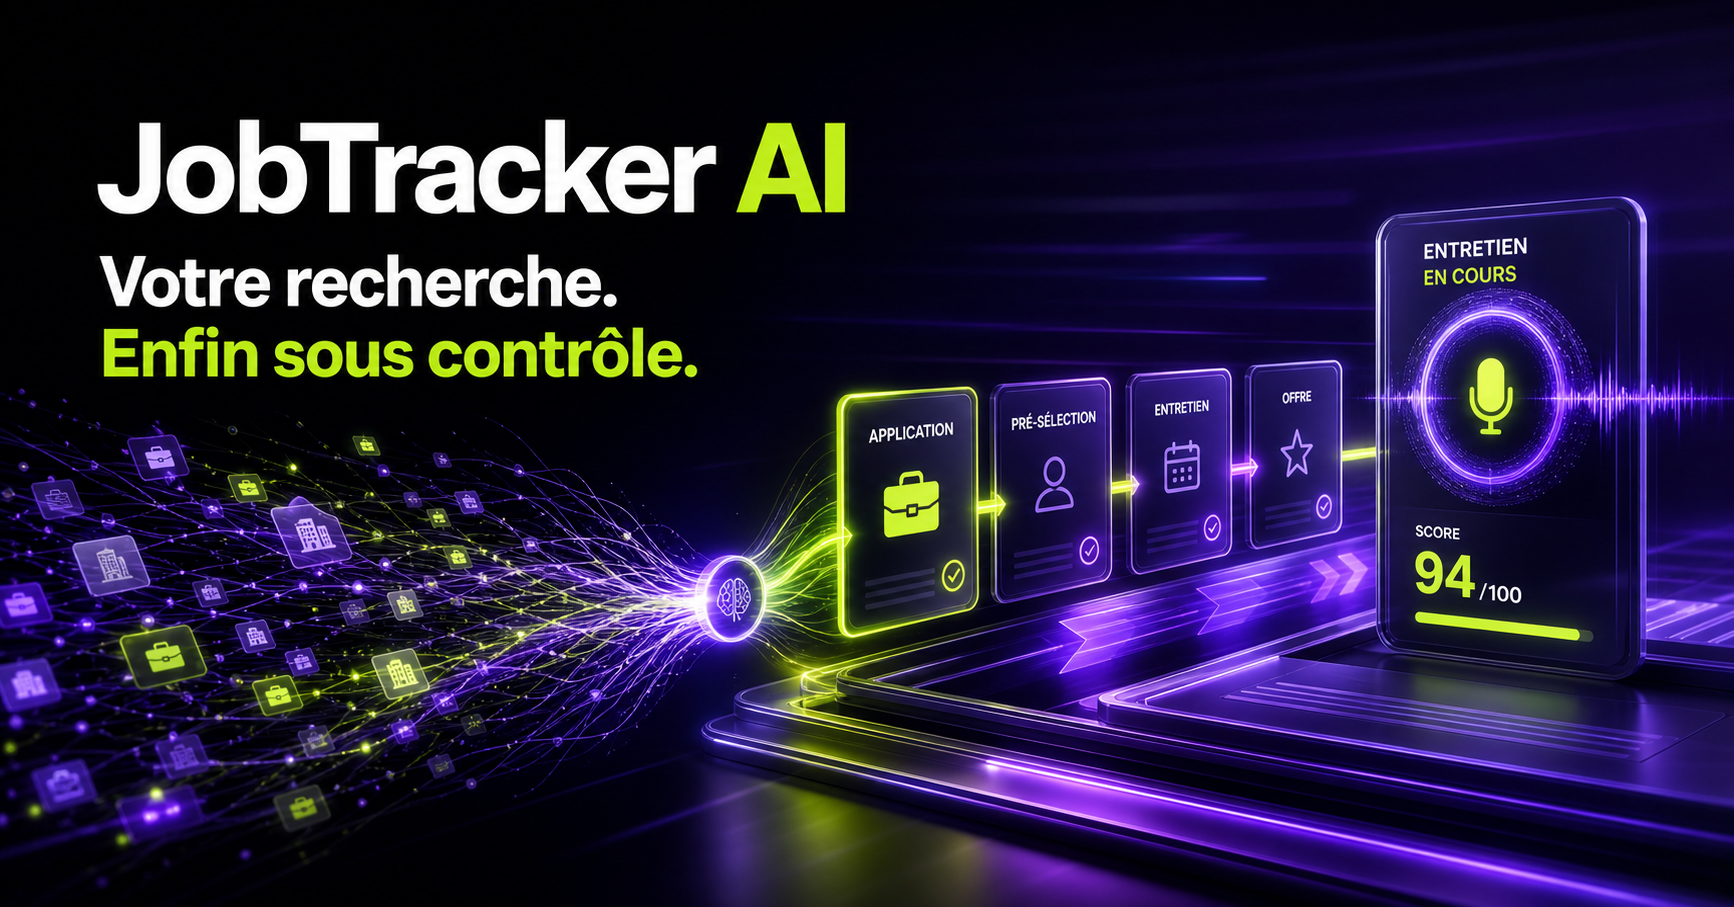
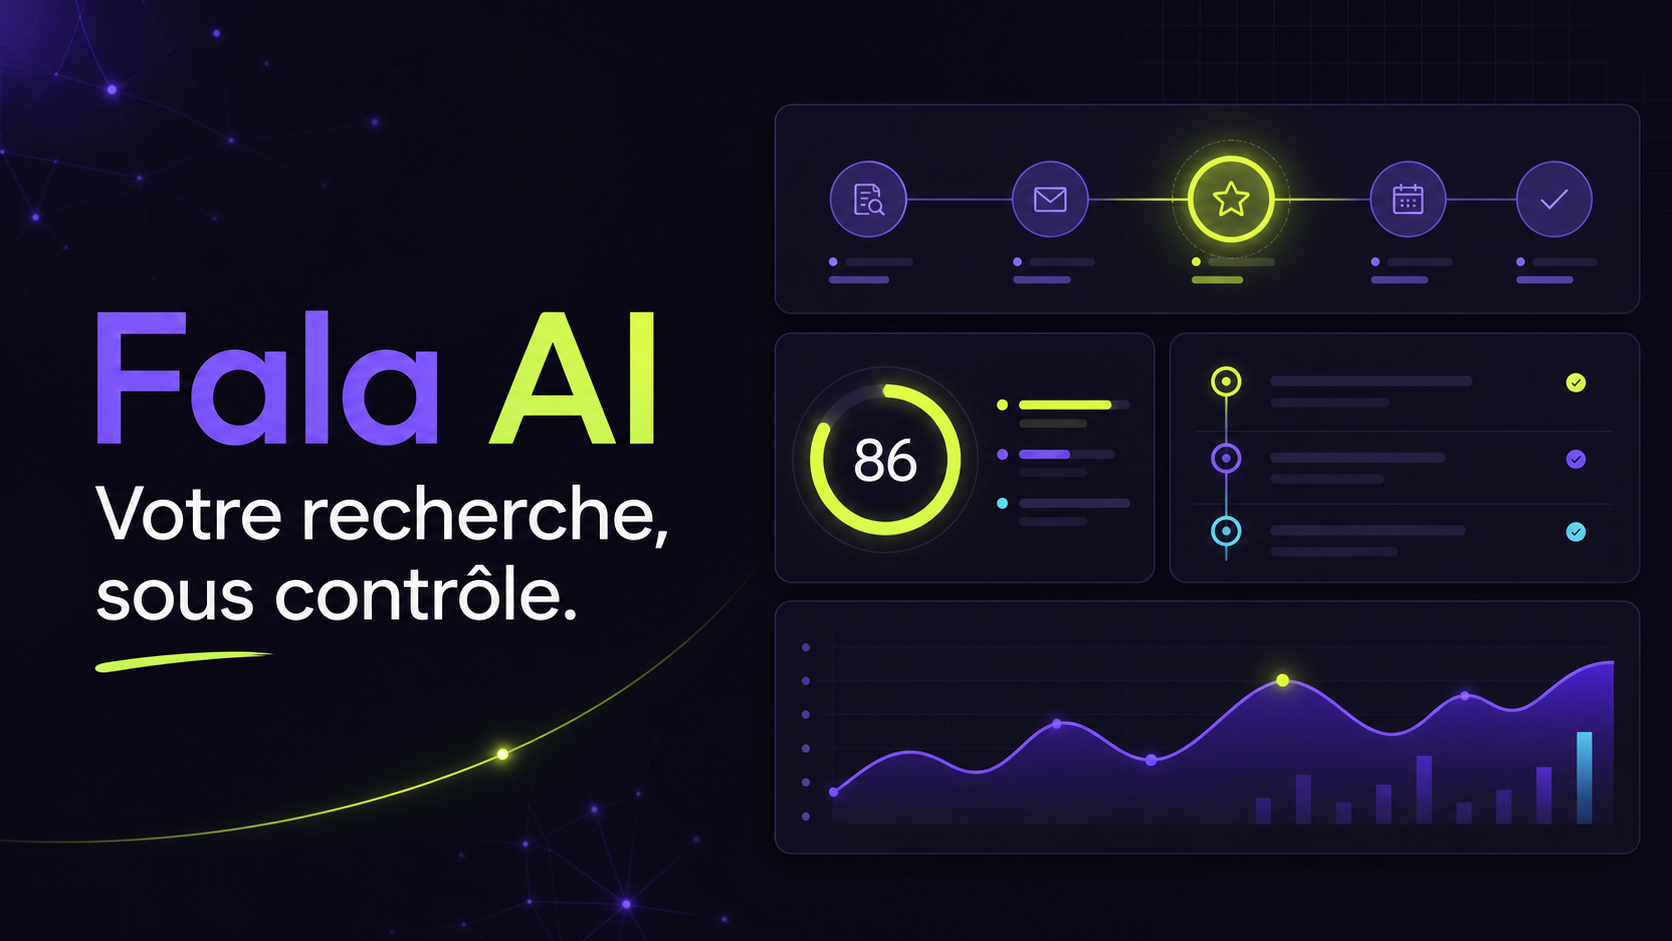
Rename platform to Fala AI and improve responsive layout

diff --git a/app/globals.css b/app/globals.css
@@ -41,6 +41,12 @@ nav { display:flex; flex-direction:column; gap:5px; }
 .search { width:min(450px, 44vw); height:39px; display:flex; align-items:center; gap:9px; padding:0 13px; border:1px solid var(--line); border-radius:9px; background:#fafafa; color:#9c9da6; }
 .search input { width:100%; border:0; outline:0; background:transparent; color:var(--ink); font-size:12px; }
 .top-actions { display:flex; align-items:center; gap:13px; }
+.mobile-menu { display:none; position:relative; }
+.mobile-menu summary { width:40px; height:40px; display:grid; place-items:center; border:1px solid var(--line); border-radius:9px; color:#555764; background:white; cursor:pointer; list-style:none; font-weight:900; }
+.mobile-menu summary::-webkit-details-marker { display:none; }
+.mobile-menu > div { position:absolute; z-index:30; top:47px; right:0; width:210px; padding:8px; display:grid; gap:3px; border:1px solid var(--line); border-radius:12px; background:white; box-shadow:0 18px 45px #201a3830; }
+.mobile-menu a,.mobile-menu button { min-height:40px; padding:0 11px; display:flex; align-items:center; border:0; border-radius:8px; color:#565763; background:transparent; text-decoration:none; text-align:left; font-size:11px; font-weight:700; }
+.mobile-menu a:hover,.mobile-menu button:hover { color:#5131ea; background:#f2efff; }
 .live { display:flex; align-items:center; gap:7px; color:#777986; font-size:11px; }
 .live i { margin:0; }
 .icon-button { position:relative; width:37px; height:37px; border:1px solid var(--line); background:white; border-radius:9px; font-size:20px; }
@@ -113,8 +119,8 @@ footer { padding:25px 2px 5px; display:flex; justify-content:space-between; colo
 .toast { position:fixed; z-index:70; right:25px; bottom:25px; display:flex; align-items:center; gap:9px; padding:12px 16px; border-radius:10px; background:#20202a; color:white; box-shadow:0 12px 30px #17172436; font-size:10px; animation:rise .25s ease; }.toast span { width:19px; height:19px; display:grid; place-items:center; border-radius:50%; background:#44b78a; }
 @keyframes rise { from { opacity:0; transform:translateY(10px); } } @keyframes pulse { 50% { opacity:.35; } } @keyframes timeSlice { 0%,65% { transform:translateX(-120%); } 88%,100% { transform:translateX(120%); } } @keyframes neuralDrift { 0%,100%{transform:translate(0,0) scale(.7);opacity:.25} 50%{transform:translate(24px,-18px) scale(1.25);opacity:.8} }
 @media (max-width:1050px) { .metric-grid { grid-template-columns:repeat(2,1fr); }.offer-grid { grid-template-columns:repeat(2,1fr); }.offer-card:last-child { display:none; } }
-@media (max-width:760px) { .sidebar { display:none; }.content { margin:0; width:100%; }.topbar { height:auto; padding:12px 18px; flex-wrap:wrap; gap:10px; }.mobile-brand { display:flex; align-items:center; gap:7px; font-size:13px; font-weight:800; }.mobile-brand .brand-mark { width:27px; height:27px; }.search { order:3; width:100%; }.live { display:none; }.page-wrap { padding:24px 18px; }.welcome-row { align-items:flex-start; }.welcome-row .ghost-button { display:none; } h1 { font-size:25px; }.focus-card { padding:26px; }.time-orbit { display:none; }.metric-grid { grid-template-columns:1fr 1fr; }.offer-grid { grid-template-columns:1fr; }.offer-card:last-child { display:block; }.section-title .spark { display:none; }.applications-title { align-items:flex-end; }.insight-row { grid-template-columns:1fr; }.kanban { grid-template-columns:repeat(4,210px); } }
-@media (max-width:480px) { .top-actions .icon-button { display:none; }.primary { padding:10px 13px; }.metric-grid { grid-template-columns:1fr; }.focus-card h2 { font-size:19px; }.focus-actions { align-items:flex-start; flex-direction:column; gap:12px; }.offer-grid { gap:10px; }.insight-row { margin-top:20px; } footer { flex-direction:column; gap:8px; }.modal { padding:24px; }.score-summary { align-items:flex-start; flex-direction:column; } }
+@media (max-width:900px) { .sidebar { display:none; }.content { margin:0; width:100%; }.topbar { height:auto; padding:12px 18px; flex-wrap:wrap; gap:10px; }.mobile-brand { display:flex; align-items:center; gap:7px; font-size:13px; font-weight:800; }.mobile-brand .brand-mark { width:27px; height:27px; }.mobile-menu { display:block; }.search { order:3; width:100%; }.live { display:none; }.page-wrap { padding:24px 18px; }.welcome-row { align-items:flex-start; }.welcome-row .ghost-button { display:none; } h1 { font-size:25px; }.focus-card { padding:26px; }.time-orbit { display:none; }.metric-grid { grid-template-columns:1fr 1fr; }.offer-grid { grid-template-columns:1fr; }.offer-card:last-child { display:block; }.section-title .spark { display:none; }.applications-title { align-items:flex-end; }.insight-row { grid-template-columns:1fr; }.kanban { grid-template-columns:repeat(5,210px); } }
+@media (max-width:480px) { .top-actions { gap:7px; }.top-actions .primary { padding:10px 12px; }.metric-grid { grid-template-columns:1fr; }.focus-card h2 { font-size:19px; }.focus-actions { align-items:flex-start; flex-direction:column; gap:12px; }.offer-grid { gap:10px; }.insight-row { margin-top:20px; } footer { flex-direction:column; gap:8px; }.modal { padding:24px; }.score-summary { align-items:flex-start; flex-direction:column; }.applications-title { align-items:flex-start; flex-direction:column; }.view-toggle { width:100%; }.view-toggle button { flex:1; }.section-title { align-items:flex-start; }.activity-card { padding:16px; } }
 @media (prefers-reduced-motion:reduce) { *,*::before,*::after { scroll-behavior:auto!important; animation:none!important; transition:none!important; } }
 
 /* Operational product states */
@@ -184,5 +190,5 @@ footer { padding:25px 2px 5px; display:flex; justify-content:space-between; colo
 .user-activity-list > div > div { display:grid; gap:3px; }
 .user-activity-list strong { font-size:9px; }
 .user-activity-list small,.user-activity-list time { color:#96959f; font-size:7px; }
-@media(max-width:900px){.public-hero{grid-template-columns:1fr;text-align:center}.public-copy>p{margin-inline:auto}.public-actions{justify-content:center}.public-orbit{width:300px;height:300px}.admin-metrics{grid-template-columns:1fr 1fr}.admin-grid{grid-template-columns:1fr}}
-@media(max-width:600px){.public-copy h1{font-size:40px}.public-actions{flex-direction:column}.public-features{grid-template-columns:1fr}.public-orbit{display:none}.public-hero{min-height:530px}.public-nav{padding:0 18px}.public-register{display:none}.user-activity-list > div{grid-template-columns:8px 1fr}.user-activity-list time{grid-column:2}.admin-wrap{padding:25px 18px}.admin-top{padding:0 18px}.admin-top .brand span:last-child{display:none}.admin-metrics{grid-template-columns:1fr 1fr}.admin-heading{align-items:flex-start;flex-direction:column;gap:12px}}
+@media(max-width:900px){.public-hero{grid-template-columns:1fr;text-align:center}.public-copy>p{margin-inline:auto}.public-actions{justify-content:center}.public-orbit{width:300px;height:300px}.admin-metrics{grid-template-columns:1fr 1fr}.admin-grid{grid-template-columns:1fr}.admin-top{padding:0 22px}.admin-wrap{padding:30px 22px}}
+@media(max-width:600px){.public-copy h1{font-size:clamp(35px,11vw,44px);letter-spacing:-2px}.public-actions{flex-direction:column}.public-features{grid-template-columns:1fr}.public-orbit{display:none}.public-hero{min-height:530px;padding:62px 20px 45px}.public-nav{padding:0 18px}.public-register{display:none}.user-activity-list > div{grid-template-columns:8px 1fr}.user-activity-list time{grid-column:2}.admin-wrap{padding:25px 14px}.admin-top{padding:0 14px}.admin-top .brand span:last-child{display:none}.admin-top > div:last-child{gap:5px}.admin-top button,.admin-top a{padding:9px}.admin-metrics{grid-template-columns:1fr}.admin-heading{align-items:flex-start;flex-direction:column;gap:12px}.admin-panel{padding:15px}.activity-list > div{grid-template-columns:8px 1fr}.activity-list time{grid-column:2}.public-features{padding-inline:20px}}

diff --git a/app/admin/page.tsx b/app/admin/page.tsx
@@ -4,6 +4,7 @@ import { useEffect, useState } from "react";
 import Link from "next/link";
 
 type AdminData = {
+  connection:{status:string;source:string;checkedAt:string};
   summary:{users:number;active7d:number;applications:number;newApplications7d:number};
   statuses:Array<{status:string;count:number}>;
   recentUsers:Array<{email:string;display_name:string;created_at:string;last_seen_at:string}>;
@@ -16,8 +17,8 @@ export default function AdminPage() {
   const [data,setData]=useState<AdminData|null>(null); const [error,setError]=useState(""); const [loading,setLoading]=useState(true);
   async function load(){setLoading(true);const response=await fetch("/api/admin/overview",{cache:"no-store"});const body=await response.json();if(!response.ok)setError(body.error??"Accès impossible");else{setData(body);setError("");}setLoading(false);}
   useEffect(()=>{const timer=window.setTimeout(()=>void load(),0);return()=>window.clearTimeout(timer);},[]);
-  if(loading)return <main className="admin-shell"><div className="public-loader"><span className="brand-mark">J</span><p>Chargement du centre de contrôle…</p></div></main>;
+  if(loading)return <main className="admin-shell"><div className="public-loader"><span className="brand-mark">F</span><p>Chargement du centre de contrôle…</p></div></main>;
   if(error)return <main className="admin-shell"><div className="admin-denied"><span>!</span><h1>Accès refusé</h1><p>{error}</p><Link href="/">Retour à la plateforme</Link></div></main>;
   if(!data)return null;
-  return <main className="admin-shell"><div className="neural-field" aria-hidden="true"><i/><i/><i/><i/><i/></div><header className="admin-top"><div className="brand"><span className="brand-mark">J</span><span>JobTracker <b>Admin</b></span></div><div><button onClick={()=>void load()}>↻ Actualiser</button><Link href="/">← Espace utilisateur</Link></div></header><div className="admin-wrap"><div className="admin-heading"><div><span>ADMINISTRATION</span><h1>Centre de contrôle</h1><p>Vue globale de l’activité, accessible uniquement à l’administrateur autorisé.</p></div><span className="admin-live"><i/>Système actif</span></div><section className="admin-metrics"><article><span>UTILISATEURS</span><strong>{data.summary.users}</strong><small>{data.summary.active7d} actifs sur 7 jours</small></article><article><span>CANDIDATURES</span><strong>{data.summary.applications}</strong><small>{data.summary.newApplications7d} créées sur 7 jours</small></article><article><span>ACTIVITÉ</span><strong>{data.activity.length}</strong><small>derniers événements affichés</small></article><article><span>TAUX ACTIF</span><strong>{data.summary.users?Math.round(data.summary.active7d/data.summary.users*100):0}%</strong><small>utilisateurs vus récemment</small></article></section><section className="admin-grid"><article className="admin-panel"><div className="admin-panel-title"><div><h2>Utilisateurs récents</h2><p>Inscription et dernière activité</p></div><span>{data.recentUsers.length}</span></div><div className="admin-table"><table><thead><tr><th>UTILISATEUR</th><th>INSCRIPTION</th><th>DERNIÈRE ACTIVITÉ</th></tr></thead><tbody>{data.recentUsers.map((user)=><tr key={user.email}><td><strong>{user.display_name}</strong><small>{user.email}</small></td><td>{date(user.created_at)}</td><td>{date(user.last_seen_at)}</td></tr>)}</tbody></table>{!data.recentUsers.length&&<p className="admin-empty">Aucun utilisateur inscrit.</p>}</div></article><article className="admin-panel"><div className="admin-panel-title"><div><h2>Pipeline global</h2><p>Répartition de toutes les candidatures</p></div></div><div className="admin-statuses">{data.statuses.map((item)=><div key={item.status}><span>{item.status}</span><div><i style={{width:`${data.summary.applications?Math.max(5,item.count/data.summary.applications*100):0}%`}}/></div><b>{item.count}</b></div>)}{!data.statuses.length&&<p className="admin-empty">Aucune candidature enregistrée.</p>}</div></article></section><section className="admin-panel activity-panel"><div className="admin-panel-title"><div><h2>Journal d’activité</h2><p>Actions importantes enregistrées par la plateforme</p></div></div><div className="activity-list">{data.activity.map((item,index)=><div key={`${item.created_at}-${index}`}><span className="activity-dot"/><div><strong>{item.description}</strong><small>{item.user_email} · {item.event_type}</small></div><time>{date(item.created_at)}</time></div>)}{!data.activity.length&&<p className="admin-empty">Aucune activité enregistrée.</p>}</div></section></div></main>;
+  return <main className="admin-shell"><div className="neural-field" aria-hidden="true"><i/><i/><i/><i/><i/></div><header className="admin-top"><div className="brand"><span className="brand-mark">F</span><span>Fala <b>Admin</b></span></div><div><button onClick={()=>void load()}>↻ Actualiser</button><Link href="/">← Espace utilisateur</Link></div></header><div className="admin-wrap"><div className="admin-heading"><div><span>ADMINISTRATION FALA AI</span><h1>Centre de contrôle</h1><p>Vue globale de l’activité, accessible uniquement à l’administrateur autorisé.</p></div><span className="admin-live"><i/>Connecté à {data.connection.source}</span></div><section className="admin-metrics"><article><span>UTILISATEURS</span><strong>{data.summary.users}</strong><small>{data.summary.active7d} actifs sur 7 jours</small></article><article><span>CANDIDATURES</span><strong>{data.summary.applications}</strong><small>{data.summary.newApplications7d} créées sur 7 jours</small></article><article><span>ACTIVITÉ</span><strong>{data.activity.length}</strong><small>derniers événements affichés</small></article><article><span>TAUX ACTIF</span><strong>{data.summary.users?Math.round(data.summary.active7d/data.summary.users*100):0}%</strong><small>utilisateurs vus récemment</small></article></section><section className="admin-grid"><article className="admin-panel"><div className="admin-panel-title"><div><h2>Utilisateurs récents</h2><p>Inscription et dernière activité</p></div><span>{data.recentUsers.length}</span></div><div className="admin-table"><table><thead><tr><th>UTILISATEUR</th><th>INSCRIPTION</th><th>DERNIÈRE ACTIVITÉ</th></tr></thead><tbody>{data.recentUsers.map((user)=><tr key={user.email}><td><strong>{user.display_name}</strong><small>{user.email}</small></td><td>{date(user.created_at)}</td><td>{date(user.last_seen_at)}</td></tr>)}</tbody></table>{!data.recentUsers.length&&<p className="admin-empty">Aucun utilisateur inscrit.</p>}</div></article><article className="admin-panel"><div className="admin-panel-title"><div><h2>Pipeline global</h2><p>Répartition de toutes les candidatures</p></div></div><div className="admin-statuses">{data.statuses.map((item)=><div key={item.status}><span>{item.status}</span><div><i style={{width:`${data.summary.applications?Math.max(5,item.count/data.summary.applications*100):0}%`}}/></div><b>{item.count}</b></div>)}{!data.statuses.length&&<p className="admin-empty">Aucune candidature enregistrée.</p>}</div></article></section><section className="admin-panel activity-panel"><div className="admin-panel-title"><div><h2>Journal d’activité</h2><p>Actions importantes enregistrées par Fala AI</p></div></div><div className="activity-list">{data.activity.map((item,index)=><div key={`${item.created_at}-${index}`}><span className="activity-dot"/><div><strong>{item.description}</strong><small>{item.user_email} · {item.event_type}</small></div><time>{date(item.created_at)}</time></div>)}{!data.activity.length&&<p className="admin-empty">Aucune activité enregistrée.</p>}</div></section></div></main>;
 }

diff --git a/app/page.tsx b/app/page.tsx
@@ -122,11 +122,11 @@ export default function Home() {
     setApplications((current)=>current.filter((a)=>a.id!==selected.id)); setSelected(null); notify("Candidature supprimée");
   }
 
-  if (!authChecked || loading) return <main className="public-shell"><div className="public-loader"><span className="brand-mark">J</span><p>Ouverture de JobTracker AI…</p></div></main>;
+  if (!authChecked || loading) return <main className="public-shell"><div className="public-loader"><span className="brand-mark">F</span><p>Ouverture de Fala AI…</p></div></main>;
 
   if (!currentUser) return <main className="public-shell">
     <div className="neural-field" aria-hidden="true"><i/><i/><i/><i/><i/></div>
-    <header className="public-nav"><div className="brand"><span className="brand-mark">J</span><span>JobTracker <b>AI</b></span></div><div className="public-auth-links"><a className="public-login" href="/signin-with-chatgpt?return_to=%2F">Connexion</a><a className="public-register" href="/signin-with-chatgpt?return_to=%2F">Créer un compte</a></div></header>
+    <header className="public-nav"><div className="brand"><span className="brand-mark">F</span><span>Fala <b>AI</b></span></div><div className="public-auth-links"><a className="public-login" href="/signin-with-chatgpt?return_to=%2F">Connexion</a><a className="public-register" href="/signin-with-chatgpt?return_to=%2F">Créer un compte</a></div></header>
     <section className="public-hero"><div className="public-copy"><span className="public-kicker">SUIVI INTELLIGENT DES CANDIDATURES</span><h1>Votre recherche d’emploi.<br/><em>Enfin sous contrôle.</em></h1><p>Centralisez vos candidatures, calculez leur compatibilité et pilotez chaque prochaine action depuis un espace privé.</p><div className="public-actions"><a className="public-cta" href="/signin-with-chatgpt?return_to=%2F">Créer mon espace →</a><span>Identité vérifiée · Données isolées · Historique conservé</span></div></div><div className="public-orbit" aria-hidden="true"><div className="public-core"><span>94</span><small>MATCH</small></div><i className="orbit-card one">Candidature</i><i className="orbit-card two">Entretien</i><i className="orbit-card three">Offre</i></div></section>
     <section className="public-features"><article><span>01</span><h2>Pipeline vivant</h2><p>Liste, Kanban, statuts et échéances restent synchronisés avec vos données.</p></article><article><span>02</span><h2>Scoring explicable</h2><p>Chaque score s’appuie sur vos compétences, votre expérience et vos préférences.</p></article><article><span>03</span><h2>Suivi personnel</h2><p>Vos candidatures appartiennent uniquement à votre compte authentifié.</p></article></section>
   </main>;
@@ -134,7 +134,7 @@ export default function Home() {
   return <main className="app-shell">
     <div className="neural-field" aria-hidden="true"><i/><i/><i/><i/><i/></div>
     <aside className="sidebar">
-      <div className="brand"><span className="brand-mark">J</span><span>JobTracker <b>AI</b></span></div>
+      <div className="brand"><span className="brand-mark">F</span><span>Fala <b>AI</b></span></div>
       <nav aria-label="Navigation principale">
         <a className="nav-item active" href="#dashboard"><span className="icon">⌂</span>Vue d’ensemble</a>
         <a className="nav-item" href="#applications"><span className="icon">▱</span>Candidatures<span className="nav-badge">{applications.length}</span></a>
@@ -150,9 +150,9 @@ export default function Home() {
 
     <section className="content" id="dashboard">
       <header className="topbar">
-        <div className="mobile-brand"><span className="brand-mark">J</span> JobTracker AI</div>
+        <div className="mobile-brand"><span className="brand-mark">F</span> Fala AI</div>
         <label className="search"><span>⌕</span><input value={query} onChange={(e)=>setQuery(e.target.value)} placeholder="Rechercher dans vos candidatures…"/></label>
-        <div className="top-actions"><span className="live"><i/>{currentUser.displayName}</span><button className="primary" onClick={()=>setModal("add")}>＋ Ajouter</button></div>
+        <div className="top-actions"><span className="live"><i/>{currentUser.displayName}</span><button className="primary" onClick={()=>setModal("add")}>＋ Ajouter</button><details className="mobile-menu"><summary aria-label="Ouvrir le menu">•••</summary><div><a href="#dashboard">Vue d’ensemble</a><a href="#applications">Candidatures</a><a href="#analytics">Statistiques</a><button onClick={()=>setModal("profile")}>Profil de scoring</button>{isAdmin&&<a href="/admin">Administration</a>}<a href="/signout-with-chatgpt?return_to=%2F">Se déconnecter</a></div></details></div>
       </header>
 
       <div className="page-wrap">
@@ -179,7 +179,7 @@ export default function Home() {
           <article className="assistant-card"><span className="assistant-icon">✓</span><div><span className="focus-label">ÉTAT DU SYSTÈME</span><h3>{profile?"Scoring opérationnel":"Scoring en attente du profil"}</h3><p>{profile?"Chaque nouvelle candidature est comparée à votre profil et reçoit un détail pondéré sur 100.":"Complétez votre profil pour calculer des scores fondés sur vos critères réels."}</p><button onClick={()=>setModal("profile")}>{profile?"Mettre à jour mes critères":"Configurer le scoring"} →</button></div></article>
         </section>
         <section className="activity-card" id="activity"><div className="section-title"><div><h2>Votre historique d’activité</h2><p>Conservé dans votre espace personnel entre chaque connexion</p></div><span className="history-count">{activity.length}</span></div><div className="user-activity-list">{activity.slice(0,12).map((item,index)=><div key={`${item.created_at}-${index}`}><span className="activity-dot"/><div><strong>{item.description}</strong><small>{item.event_type}</small></div><time>{formatDate(item.created_at)}</time></div>)}{!activity.length&&<p className="admin-empty">Votre historique apparaîtra ici après vos premières actions.</p>}</div></section>
-        <footer><span>JobTracker AI · Accès privé et données isolées par utilisateur</span><span><i/> Stockage persistant actif</span></footer>
+        <footer><span>Fala AI · Accès privé et données isolées par utilisateur</span><span><i/> Stockage persistant actif</span></footer>
       </div>
     </section>
 

diff --git a/app/layout.tsx b/app/layout.tsx
@@ -7,13 +7,13 @@ export async function generateMetadata(): Promise<Metadata> {
   const host = requestHeaders.get("x-forwarded-host") ?? requestHeaders.get("host") ?? "localhost:3000";
   const protocol = requestHeaders.get("x-forwarded-proto") ?? (host.includes("localhost") ? "http" : "https");
   const base = `${protocol}://${host}`;
-  const title = "JobTracker AI — Pilotez votre recherche d’emploi";
+  const title = "Fala AI — Pilotez votre recherche d’emploi";
   const description = "Centralisez vos candidatures, automatisez vos relances et préparez vos entretiens avec un assistant intelligent.";
   return {
     title,
     description,
     icons: { icon: "/favicon.svg", shortcut: "/favicon.svg" },
-    openGraph: { title, description, type: "website", images: [{ url: `${base}/og.png`, width: 1792, height: 1024, alt: "JobTracker AI — Votre recherche, enfin sous contrôle" }] },
+    openGraph: { title, description, type: "website", images: [{ url: `${base}/og.png`, width: 1672, height: 941, alt: "Fala AI — Votre recherche, enfin sous contrôle" }] },
     twitter: { card: "summary_large_image", title, description, images: [`${base}/og.png`] },
   };
 }

diff --git a/app/api/admin/overview/route.ts b/app/api/admin/overview/route.ts
@@ -19,5 +19,5 @@ export async function GET() {
     db.prepare("SELECT email,display_name,created_at,last_seen_at FROM users ORDER BY last_seen_at DESC LIMIT 20").all(),
     db.prepare("SELECT user_email,event_type,description,created_at FROM activity_events ORDER BY id DESC LIMIT 30").all(),
   ]);
-  return Response.json({ summary:{users:users?.count??0,active7d:active?.count??0,applications:applications?.count??0,newApplications7d:recentApps?.count??0},statuses:statuses.results,recentUsers:recentUsers.results,activity:activity.results });
+  return Response.json({ connection:{status:"connected",source:"Fala AI",checkedAt:new Date().toISOString()},summary:{users:users?.count??0,active7d:active?.count??0,applications:applications?.count??0,newApplications7d:recentApps?.count??0},statuses:statuses.results,recentUsers:recentUsers.results,activity:activity.results });
 }
